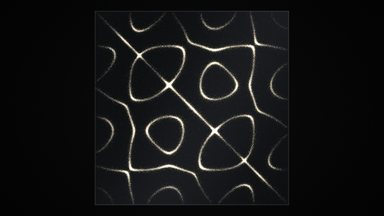
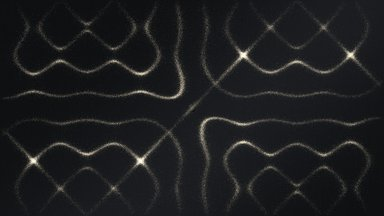
Tunnel moves from Worlds to Trippy (last in it). Plasma opens on Full screen, Galaxy with four arms. Julia is called Fractals (its id stays julia). Chladni is called Chladni Plate (its id stays chladni), Whole screen first among its plates and the default. New pictures in Settings for Plasma (full s

diff --git a/packages/core/src/client/settings.js b/packages/core/src/client/settings.js
@@ -134,7 +134,7 @@ const VIZ_OPTIONS = {
   skCamera: ['choice', 'orbit', ['orbit', 'front', 'above']],
   skHistory: ['range', 70, 25, 100, 5],
   // Galaxy: how many arms, its colours, how fast it turns (percent), the view.
-  gxArms: ['choice', '2', ['2', '3', '4', '6']],
+  gxArms: ['choice', '4', ['2', '3', '4', '6']],
   gxColors: ['choice', 'classic', ['classic', 'neon', 'fire', 'ice']],
   gxSpin: ['range', 100, 0, 300, 5],
   gxView: ['choice', 'slant', ['face', 'slant', 'edge']],
@@ -155,9 +155,9 @@ const VIZ_OPTIONS = {
   hfDisplay: ['choice', 'teal', ['teal', 'amber', 'blue', 'green']],
   hfMeters: ['choice', 'amber', ['amber', 'white', 'blue']],
   hfPeaks: ['bool', true],
-  // Chladni: the plate (square, round, the whole screen), the sand's colour
+  // Chladni Plate: the plate (the whole screen, square, round), the sand's colour
   // ('notes': the harmony's), how hard it shakes (percent).
-  chPlate: ['choice', 'square', ['square', 'round', 'full']],
+  chPlate: ['choice', 'full', ['full', 'square', 'round']],
   chColors: ['choice', 'sand', ['sand', 'gold', 'ice', 'notes']],
   chShake: ['range', 100, 25, 200, 5],
   // Piano Roll: the colours (left and right hand, per note, neon), how fast
@@ -207,7 +207,7 @@ const VIZ_OPTIONS = {
   shWhen: ['choice', 'hits', ['hits', 'bar']],
   // Plasma: the shape (the whole screen or a globe), the colours, how many
   // tendrils at most.
-  pgShape: ['choice', 'globe', ['full', 'globe']],
+  pgShape: ['choice', 'full', ['full', 'globe']],
   pgColors: ['choice', 'plasma', ['plasma', 'blue', 'green', 'rainbow']],
   pgCount: ['range', 10, 4, 20, 1],
   // Attractor: which one (Clifford, De Jong, Lorenz), the colours, how fast
@@ -215,7 +215,7 @@ const VIZ_OPTIONS = {
   atKind: ['choice', 'clifford', ['clifford', 'dejong', 'lorenz']],
   atColors: ['choice', 'fire', ['fire', 'ice', 'rainbow', 'gold']],
   atSpin: ['range', 100, 0, 300, 5],
-  // Julia: the look (glowing edges, bands, ink), how fast it changes
+  // Fractals: the look (glowing edges, bands, ink), how fast it changes
   // (percent).
   jlLook: ['choice', 'neon', ['neon', 'classic', 'ink']],
   jlSpeed: ['range', 100, 25, 300, 5],

diff --git a/apps/desktop/renderer/app/viz/chladni.js b/apps/desktop/renderer/app/viz/chladni.js
@@ -1,6 +1,6 @@
 'use strict';
 
-// Chladni: sand on a metal plate set ringing by the music, gathering where
+// Chladni Plate: sand on a metal plate set ringing by the music, gathering where
 // the plate stands still. Which way it rings (its mode, and so the figure
 // the sand draws) comes from the note the music has dwelt on lately: a new
 // one, held a moment, and the sand runs from the old lines to the new ones,
@@ -8,7 +8,7 @@
 // lines and the faster they find them again; a kick jolts them all.
 // A click rings the next figure.
 //
-// Its cogwheel: a square or a round plate or the whole screen, the sand's
+// Its cogwheel: the whole screen, a square or a round plate, the sand's
 // colour (or the colour of the harmony), how hard it shakes.
 //
 // WebGL (viz/gl.js): the grains (a quarter of a million) live in a float
@@ -353,7 +353,7 @@
 
   Visualizer.add({
     id: 'chladni',
-    name: 'Chladni',
+    name: 'Chladni Plate',
     desc: 'Sand on a ringing metal plate, gathering in the figure of the note the music dwells on and running to the next when it changes',
     glyph: '<svg class="icon" viewBox="0 0 24 24" aria-hidden="true" fill="none" stroke="currentColor" stroke-width="2" '
       + 'stroke-linecap="round" stroke-linejoin="round"><rect x="3" y="3" width="18" height="18" rx="1"/>'
@@ -362,7 +362,7 @@
     create: (canvas) => new Chladni(canvas),
     click: (scene) => scene.next(),
     options: [
-      { type: 'choice', key: 'chPlate', label: 'Plate', choices: [['square', 'Square'], ['round', 'Round'], ['full', 'Whole screen']] },
+      { type: 'choice', key: 'chPlate', label: 'Plate', choices: [['full', 'Whole screen'], ['square', 'Square'], ['round', 'Round']] },
       { type: 'choice', key: 'chColors', label: 'Sand', choices: [['sand', 'Sand'], ['gold', 'Gold'], ['ice', 'Ice'], ['notes', 'By the notes']] },
       { type: 'slider', key: 'chShake', label: 'Shaking', min: 25, max: 200, step: 5 },
     ],

diff --git a/apps/desktop/renderer/app/viz/julia.js b/apps/desktop/renderer/app/viz/julia.js
@@ -1,6 +1,6 @@
 'use strict';
 
-// Julia: the Julia set of z^2 + c, its c gliding along the edge of the
+// Fractals: the Julia set of z^2 + c, its c gliding along the edge of the
 // Mandelbrot set, where the shapes are richest: islands joining into
 // coastlines and breaking into dust again. The glide moves on with the
 // tempo and a little further on each beat; the bass draws the view in; it
@@ -133,7 +133,7 @@
 
   Visualizer.add({
     id: 'julia',
-    name: 'Julia',
+    name: 'Fractals',
     desc: 'A Julia set gliding along the edge of the Mandelbrot set with the tempo, its islands joining and breaking apart, glowing with the beat',
     glyph: '<svg class="icon" viewBox="0 0 24 24" aria-hidden="true" fill="none" stroke="currentColor" stroke-width="2" '
       + 'stroke-linecap="round" stroke-linejoin="round"><path d="M12 12c2-4 7-4 8 0s-4 6-8 3-6-1-8-3 4-6 8 0z"/><circle cx="6" cy="7" r="1.5"/><circle cx="18" cy="17" r="1.5"/></svg>',

diff --git a/apps/desktop/renderer/app/visualizer.js b/apps/desktop/renderer/app/visualizer.js
@@ -85,13 +85,13 @@ const VIZ_CATEGORIES = [
     id: 'worlds',
     name: 'Worlds',
     desc: 'Places to look at or fly through',
-    ids: ['synthwave', 'warp', 'tunnel', 'galaxy', 'aurora', 'lightning', 'inferno', 'fireworks', 'disco', 'stainedglass', 'blackhole', 'deepsea', 'pond'],
+    ids: ['synthwave', 'warp', 'galaxy', 'aurora', 'lightning', 'inferno', 'fireworks', 'disco', 'stainedglass', 'blackhole', 'deepsea', 'pond'],
   },
   {
     id: 'trippy',
     name: 'Trippy',
     desc: 'Patterns, colour and motion',
-    ids: ['kaleidoscope', 'prism', 'lava', 'demo', 'rain', 'chladni', 'arcade', 'coral', 'shatter', 'attractor', 'julia', 'plasmaglobe'],
+    ids: ['kaleidoscope', 'prism', 'lava', 'demo', 'rain', 'chladni', 'arcade', 'coral', 'shatter', 'attractor', 'julia', 'plasmaglobe', 'tunnel'],
   },
 ];
 
